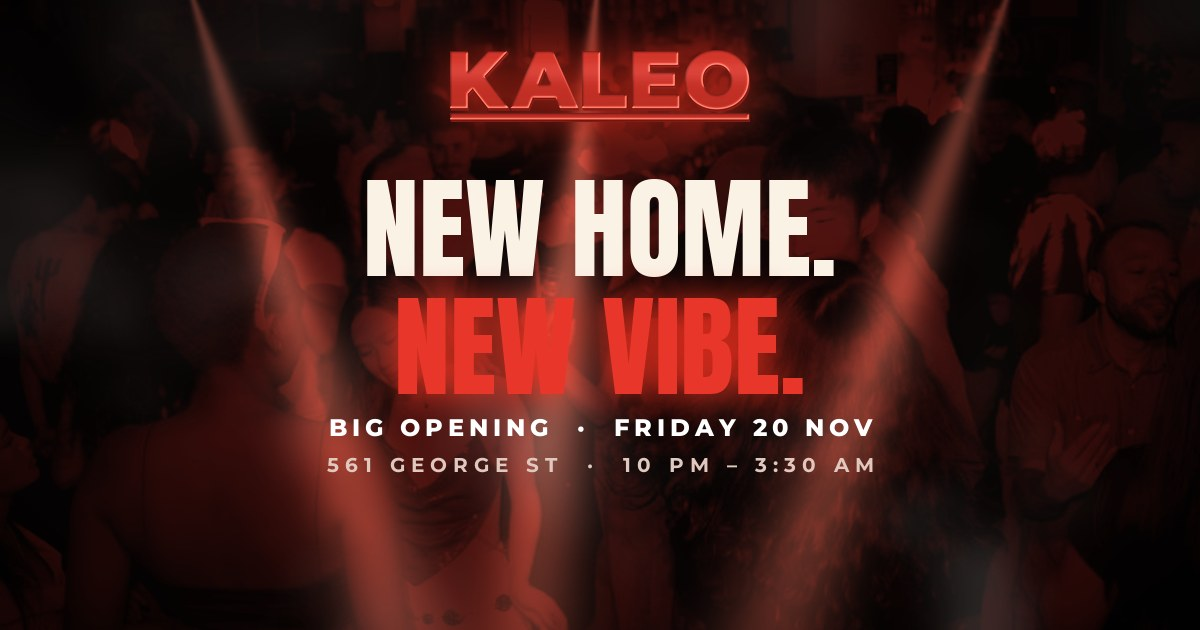
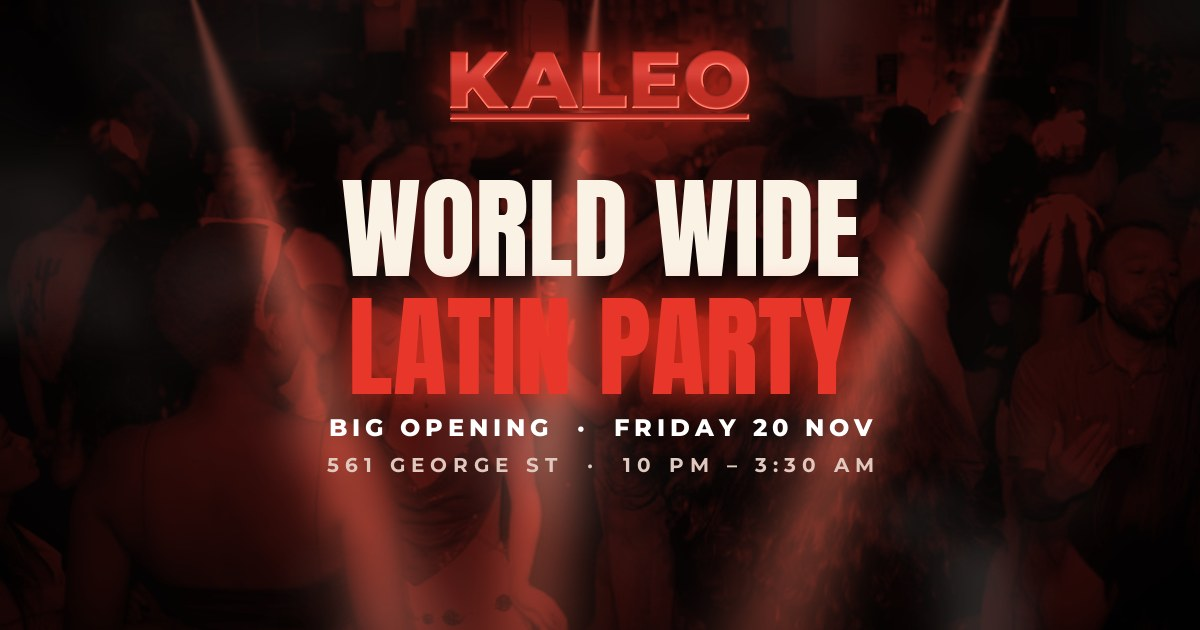
Put World Wide Latin Party on the share image

Changed region(s): [[0.2775, 0.2714, 0.74, 0.6635]]

diff --git a/site/index.html b/site/index.html
@@ -12,7 +12,7 @@
 <meta property="og:title" content="KALEO — World Wide Latin Party">
 <meta property="og:description" content="Grand Opening · Friday 20 November · 10 PM – 3:30 AM · 561 George St, Sydney.">
 <meta property="og:url" content="https://santiagoarroyo6.github.io/kaleo-landing/">
-<meta property="og:image" content="https://santiagoarroyo6.github.io/kaleo-landing/assets/img/og-kaleo-opening.jpg?v=4">
+<meta property="og:image" content="https://santiagoarroyo6.github.io/kaleo-landing/assets/img/og-kaleo-opening.jpg?v=5">
 <meta property="og:image:width" content="1200">
 <meta property="og:image:height" content="630">
 <meta name="twitter:card" content="summary_large_image">
@@ -35,7 +35,7 @@
   "endDate": "2026-11-21T03:30:00+11:00",
   "eventStatus": "https://schema.org/EventScheduled",
   "eventAttendanceMode": "https://schema.org/OfflineEventAttendanceMode",
-  "image": ["https://santiagoarroyo6.github.io/kaleo-landing/assets/img/og-kaleo-opening.jpg?v=4"],
+  "image": ["https://santiagoarroyo6.github.io/kaleo-landing/assets/img/og-kaleo-opening.jpg?v=5"],
   "location": {
     "@type": "Place",
     "name": "KALEO at 561 George St",
